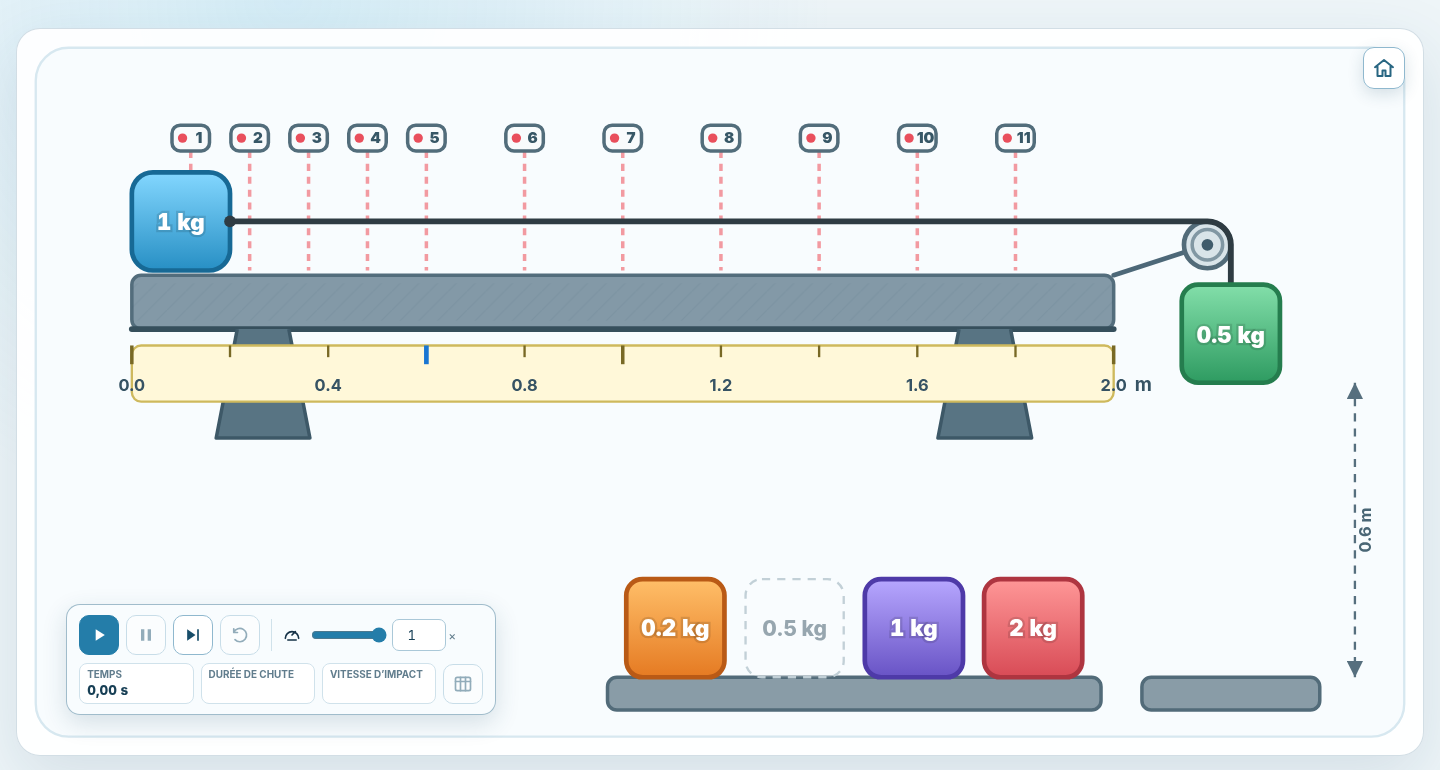
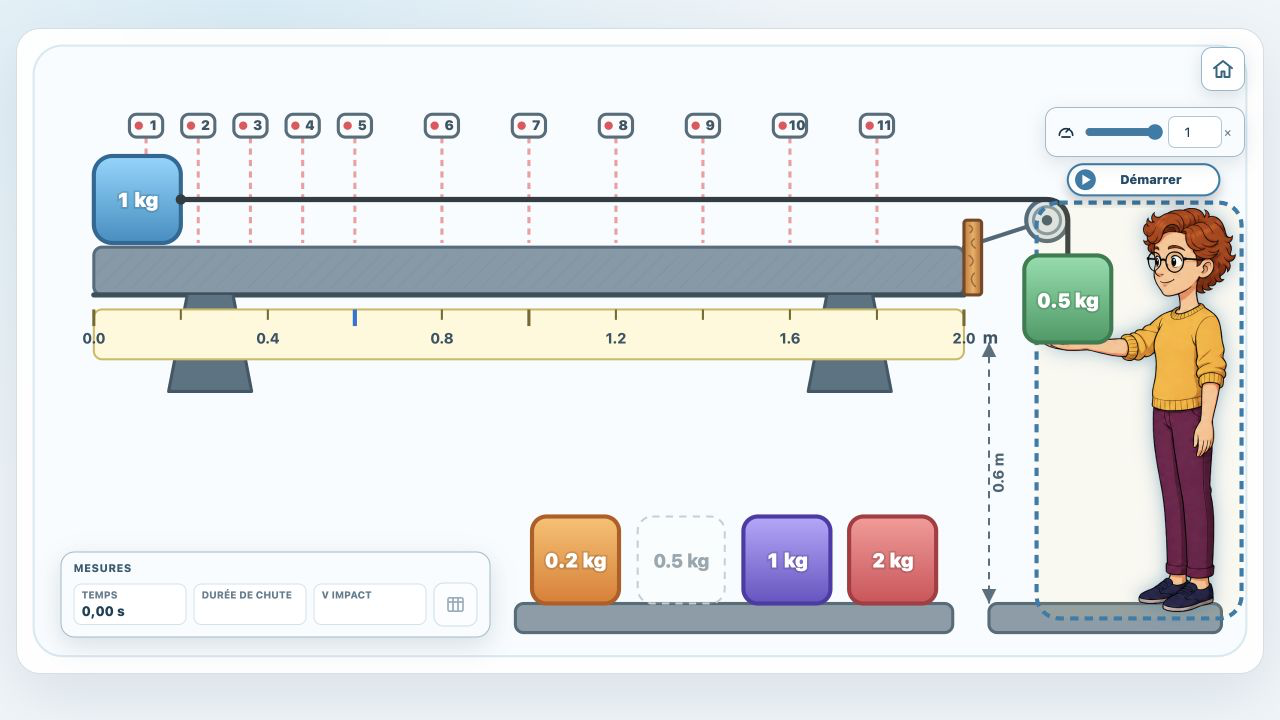
README

diff --git a/README.md b/README.md
@@ -6,14 +6,16 @@ The application is intended for classroom investigation of accelerated motion, m
 
 ## Preview
 
-![Horizontal track motion simulation showing the cart, sensors, pulley, selectable masses, and controls.](./docs/simulation-preview.png)
+![Current horizontal-track simulation showing the cart, eleven sensors, pulley, selectable masses, measurement panel, playback-speed setting, and interactive character holding S2.](./docs/simulation-preview.png)
 
 ## Features
 
 - Two pedagogical modes: ideal and frictional.
 - Animated SVG apparatus with a cart, pulley, string, suspended mass, and speed sensors.
+- An interactive cartoon character who holds S2 before release, starts the experiment, and resets it after completion.
 - Four selectable suspended masses available by tap, click, keyboard, or drag and drop.
 - Exact event handling for sensor crossings, impact, phase transition, stopping, and track end.
+- A visually inextensible string whose slack section keeps an almost constant length after S2 lands.
 - Perfect measurements in ideal mode.
 - Gaussian measurement noise in friction mode.
 - On-screen measurement table and CSV export.
@@ -28,8 +30,8 @@ The application is intended for classroom investigation of accelerated motion, m
 3. Select the interface language on the landing page. French is selected by default.
 4. Choose an exploration mode.
 5. Select a suspended mass by tapping or clicking it. Drag and drop remains available on larger screens.
-6. Start the simulation with the play control.
-7. When the experiment ends, open the measurement table and optionally download the CSV file.
+6. Click the character to release S2 and start the simulation.
+7. When the experiment ends, open the measurement table and optionally download the CSV file. Click the character again to reset the experiment.
 
 The default suspended mass is `0.5 kg`.
 
@@ -44,15 +46,15 @@ Current responsive behavior includes:
 - a tighter SVG viewport on portrait phones, preserving the physical coordinate system while enlarging the useful scene;
 - a dedicated four-button suspended-mass selector on narrow and short-landscape screens;
 - direct tap or click selection in addition to drag and drop and keyboard selection;
-- readouts placed before the commands on portrait phones;
-- a two-column composition on short landscape screens, with the apparatus on the left and controls on the right;
+- the mass selector, playback-speed setting, and measurement panel placed in a clear vertical sequence on portrait phones;
+- a two-column composition on short landscape screens, with the apparatus on the left and the mass, speed, and measurement panels on the right;
 - a card-based measurement presentation below `560 px`, without horizontal table scrolling;
 - safe-area-aware spacing, dynamic viewport units, and `44 × 44 px` or larger primary targets;
 - automatic SVG recropping after viewport resizing, page restoration, Visual Viewport changes, or orientation changes;
 - a compact two-column layout for very short landscape screens down to `568 × 320 px`;
-- focus transfer between the landing page and the simulation controls after mode changes.
+- focus transfer between the landing page and the interactive character after mode changes.
 
-The desktop interface is intentionally unchanged: its full SVG mass rack, overlaid controls, and historical `1200 × 620` SVG viewBox remain active on wide screens.
+On desktop, the full SVG mass rack and historical `1200 × 620` SVG viewBox remain active. The measurement panel is overlaid in the lower-left corner, the playback-speed setting sits below the home button, and the character is the primary simulation control.
 
 ## Languages and Number Formatting
 
@@ -66,7 +68,7 @@ The language selector is available only before entering a simulation mode. On la
 The active language applies to:
 
 - the mode-selection screen;
-- command labels, tooltips, and accessible names;
+- interaction labels, tooltips, and accessible names;
 - result readouts;
 - the measurement table;
 - CSV headers and filenames;
@@ -102,21 +104,23 @@ Each mass has a distinct color. On desktop, click a mass or drag it from the rac
 
 Keyboard users can focus a mass and press `Enter` or `Space` to select it.
 
-### Animation Controls
+### Running and Resetting the Simulation
 
-On wide screens, the controls are overlaid in the lower-left area of the apparatus. In portrait at widths up to `760 px`, the readouts, mass selector, and controls form a vertical interface below the SVG. On short landscape screens, the apparatus and command area are arranged in two columns:
+The visible Play, Pause, Step, and Reset buttons have been removed. The character is the primary simulation control:
 
-- play or resume;
-- pause;
-- advance by one `0.05 s` step;
-- reset;
-- playback speed from `0.2×` to `1×` in `0.2×` increments.
+- before the experiment, click the character to release S2 and start the simulation;
+- while paused, click the character to resume;
+- after the experiment reaches a terminal state, click the character to reset the complete experiment.
+
+Hovering over or focusing the character displays the available action. The character can also be activated with `Enter` or `Space`.
+
+Playback speed remains adjustable from `0.2×` to `1×` in `0.2×` increments. On wide screens, its compact panel is positioned just below the home button. On narrow screens, it moves into the interface flow between the suspended-mass selector and the measurement panel.
 
 On larger screens, the home button in the upper-right corner of the SVG returns to the mode-selection screen. It is hidden on phone layouts in both portrait and landscape orientations to avoid overlap and conflicts with mobile browser gestures.
 
 ### Result Readouts
 
-The result area displays:
+The panel titled **Measurements** displays:
 
 - current simulation time;
 - fall duration;
@@ -183,6 +187,8 @@ a₂ = −μg
 
 In ideal mode, `a₂ = 0`, so the cart continues at constant speed. In friction mode, the speed decreases until the cart stops or reaches the end of the track.
 
+During this phase, the displayed slack section of string keeps almost the same length it had when S2 reached the support. Its curve deepens as S1 approaches the pulley instead of visually stretching or shrinking the string.
+
 ### Numerical Integration and Events
 
 For constant acceleration over a time interval `Δt`, the engine uses the exact kinematic equations:
@@ -238,9 +244,10 @@ Export characteristics:
 
 | Key | Action |
 |---|---|
-| `Space` | Start, resume, or pause |
+| `Space` | Start, resume, or pause (outside editable controls) |
 | `Right Arrow` | Advance by `0.05 s` |
 | `Home` | Reset the experiment |
+| `Enter` or `Space` on the character | Start, resume, or reset according to the current state |
 | `Enter` or `Space` on a mass | Select that suspended mass |
 | `Escape` | Close the measurement dialog |
 
@@ -278,7 +285,7 @@ Global shortcuts are ignored while an input or button has focus.
 │   ├── responsive-apparatus.js    # Portrait and short-landscape SVG viewport
 │   ├── physics.js                 # Core physical functions
 │   ├── sensor-controller.js       # Sensor-crossing detection and display
-│   ├── simulation-controls.js     # Controls and keyboard shortcuts
+│   ├── simulation-controls.js     # Simulation commands and keyboard shortcuts
 │   ├── time-loop.js               # Fixed-step time loop
 │   └── transitions.js             # Exact event transitions
 └── test/                          # Unit and integration tests
@@ -330,8 +337,8 @@ Opening `index.html` directly with a `file://` URL is also supported.
 The application includes:
 
 - a keyboard-visible skip link to the main content;
-- keyboard-operable controls and mass selection;
-- focus transfer to the start control after entering a mode and back to the selected mode card on return;
+- a keyboard-operable character, playback-speed setting, and mass selection;
+- focus transfer to the character after entering a mode and back to the selected mode card on return;
 - accessible names for icon-only buttons;
 - translated SVG titles and descriptions;
 - a polite, visually hidden simulation-status region;
@@ -364,6 +371,7 @@ The automated suite covers:
 - exact phase and stopping events;
 - fixed-step timing behavior;
 - SVG geometry and animation;
+- interactive-character start/reset behavior and slack-string length preservation;
 - sensor positions and crossings;
 - tap, click, drag-and-drop, keyboard, and mobile-button mass selection;
 - noisy time and speed measurements;
